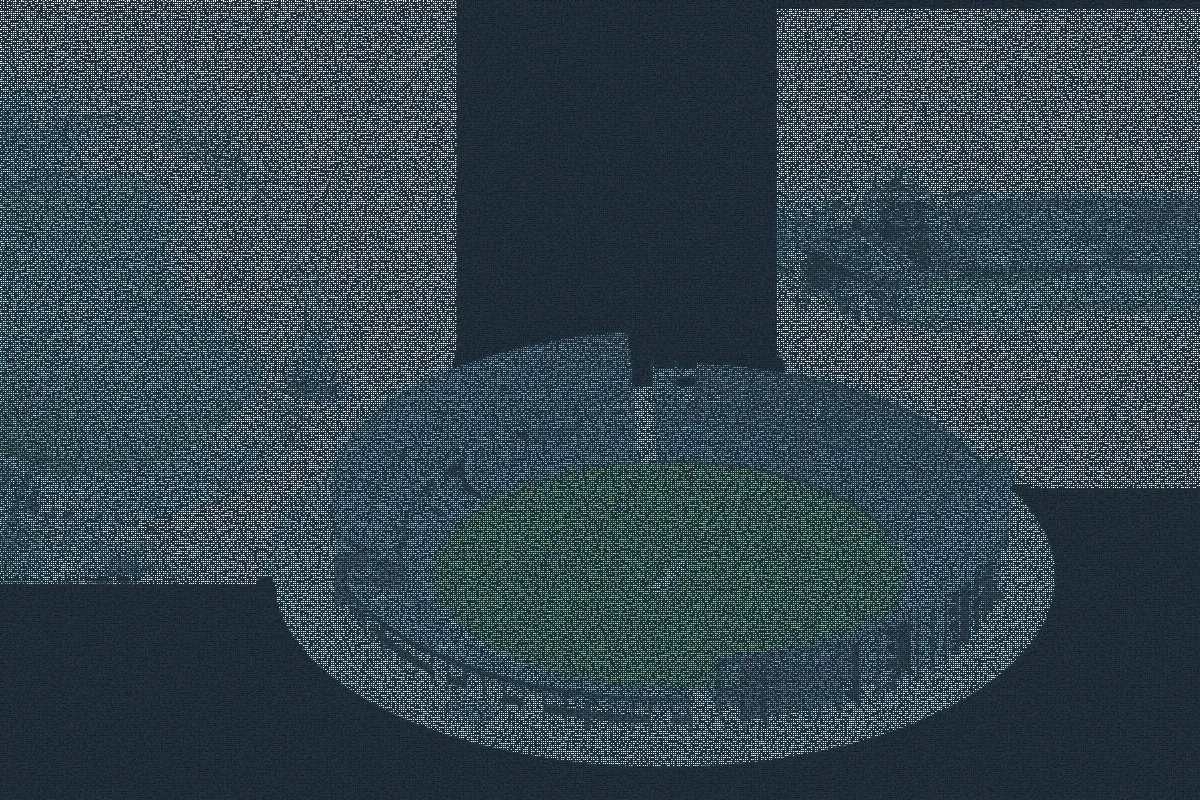
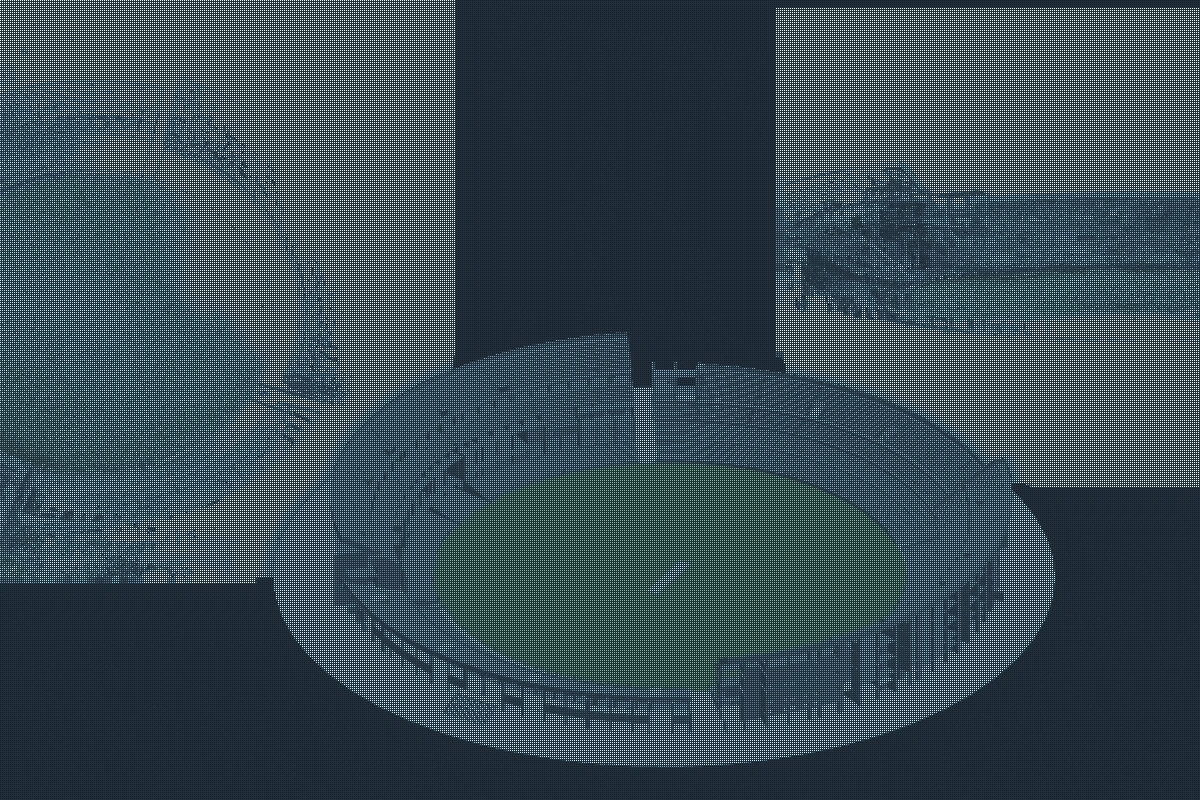
Add scroll-scrubbed 4D construction sequence
- BuildingAssembly accepts an external progress value and exposes
  setProgress, so the build order can be driven by something other than
  its own timer
- ScrollSequence pins the model while page scroll scrubs the programme,
  with a live timeline, stage highlighting and percent complete
- The 3D chunk only mounts once the section nears the viewport, so it
  never weighs on initial page load; static final frame under
  prefers-reduced-motion
- Cleaner scan placeholder (no dither noise, higher quality) to remove
  WebP block artefacts

Claude-Session: https://claude.ai/code/session_017JEBXbeF4h1xMbtK6VH1XY

diff --git a/src/components/ScrollSequence.tsx b/src/components/ScrollSequence.tsx
@@ -1,0 +1,128 @@
+import { lazy, Suspense, useEffect, useRef, useState } from 'react'
+
+const BuildingAssembly = lazy(() => import('./BuildingAssembly'))
+
+const STAGES = [
+  { at: 0.0, label: 'Substructure & frame', week: 'Weeks 1–14' },
+  { at: 0.44, label: 'Envelope & partitions', week: 'Weeks 15–28' },
+  { at: 0.67, label: 'MEP first fix', week: 'Weeks 29–40' },
+  { at: 0.9, label: 'Handover model', week: 'Weeks 41–48' },
+]
+
+/**
+ * Scroll-scrubbed 4D construction sequence: the page scroll drives the build
+ * order of the model rather than a timer, so the programme is the story.
+ */
+export default function ScrollSequence() {
+  const wrapRef = useRef<HTMLDivElement | null>(null)
+  const [p, setP] = useState(0)
+  const [reduced, setReduced] = useState(false)
+  const [inView, setInView] = useState(false)
+
+  // Only download/mount the 3D chunk once the section is close to the viewport,
+  // so it never weighs on the initial page load.
+  useEffect(() => {
+    const el = wrapRef.current
+    if (!el) return
+    const io = new IntersectionObserver(
+      ([e]) => {
+        if (e.isIntersecting) {
+          setInView(true)
+          io.disconnect()
+        }
+      },
+      { rootMargin: '600px 0px' },
+    )
+    io.observe(el)
+    return () => io.disconnect()
+  }, [])
+
+  useEffect(() => {
+    if (window.matchMedia('(prefers-reduced-motion: reduce)').matches) {
+      setReduced(true)
+      setP(1)
+      return
+    }
+    let raf = 0
+    const onScroll = () => {
+      if (raf) return
+      raf = requestAnimationFrame(() => {
+        raf = 0
+        const el = wrapRef.current
+        if (!el) return
+        const r = el.getBoundingClientRect()
+        const scrollable = r.height - window.innerHeight
+        if (scrollable <= 0) return
+        setP(Math.min(1, Math.max(0, -r.top / scrollable)))
+      })
+    }
+    window.addEventListener('scroll', onScroll, { passive: true })
+    onScroll()
+    return () => {
+      window.removeEventListener('scroll', onScroll)
+      if (raf) cancelAnimationFrame(raf)
+    }
+  }, [])
+
+  // Map the scroll range onto the model's build cycle (stop just short of the
+  // loop point so the finished building holds at the end instead of resetting).
+  const modelProgress = p * 0.985
+  const active = STAGES.reduce((acc, s, i) => (p >= s.at ? i : acc), 0)
+
+  return (
+    <div ref={wrapRef} className="relative" style={{ height: reduced ? 'auto' : '320vh' }}>
+      <div className={reduced ? '' : 'sticky top-0 h-screen flex flex-col justify-center overflow-hidden'}>
+        <div className="container-x w-full py-10">
+          <div className="flex flex-wrap items-end justify-between gap-6 mb-6">
+            <div>
+              <p className="label-mono mb-2">4D sequencing</p>
+              <h2 className="font-display text-2xl md:text-4xl font-semibold leading-tight">
+                Scroll to build the programme.
+              </h2>
+            </div>
+            <div className="text-right">
+              <div className="text-3xl md:text-4xl font-display font-semibold text-accent tabular-nums">
+                {Math.round(p * 100)}%
+              </div>
+              <div className="label-mono opacity-70">{STAGES[active].week}</div>
+            </div>
+          </div>
+
+          {/* Timeline */}
+          <div className="mb-6">
+            <div className="h-1 rounded-full overflow-hidden" style={{ background: 'var(--line)' }}>
+              <div
+                className="h-full rounded-full"
+                style={{ width: `${p * 100}%`, background: 'var(--accent)' }}
+              />
+            </div>
+            <div className="mt-3 grid grid-cols-2 md:grid-cols-4 gap-3">
+              {STAGES.map((s, i) => (
+                <div
+                  key={s.label}
+                  className="transition-opacity duration-300"
+                  style={{ opacity: i <= active ? 1 : 0.35 }}
+                >
+                  <div className="text-xs font-semibold" style={{ color: i === active ? 'var(--accent)' : undefined }}>
+                    {s.label}
+                  </div>
+                  <div className="text-[11px] text-muted">{s.week}</div>
+                </div>
+              ))}
+            </div>
+          </div>
+
+          <div className="rounded-2xl overflow-hidden border border-line" style={{ height: '52vh', minHeight: 300 }}>
+            <Suspense fallback={<div className="w-full h-full" style={{ background: 'var(--surface-2)' }} />}>
+              {inView ? (
+                <BuildingAssembly progress={reduced ? 0.985 : modelProgress} />
+              ) : (
+                <div className="w-full h-full" style={{ background: 'var(--surface-2)' }} />
+              )}
+            </Suspense>
+          </div>
+        </div>
+      </div>
+    </div>
+  )
+}

diff --git a/src/components/BuildingAssembly.tsx b/src/components/BuildingAssembly.tsx
@@ -41,7 +41,8 @@ interface El {
   t1: number
 }
 
-export default function BuildingAssembly() {
+export default function BuildingAssembly({ progress }: { progress?: number } = {}) {
+  const scrubbed = progress !== undefined
   const { theme } = useTheme()
   const mountRef = useRef<HTMLDivElement | null>(null)
   const progRef = useRef<HTMLDivElement | null>(null)
@@ -49,7 +50,7 @@ export default function BuildingAssembly() {
 
   const [mode, setMode] = useState<Mode>('shaded')
   const [phase, setPhase] = useState<Phase>('structural')
-  const [playing, setPlaying] = useState(true)
+  const [playing, setPlaying] = useState(progress === undefined)
 
   // Init once
   useEffect(() => {
@@ -61,7 +62,8 @@ export default function BuildingAssembly() {
 
   useEffect(() => { engine.current?.applyTheme(theme) }, [theme])
   useEffect(() => { engine.current?.applyMode(mode) }, [mode])
-  useEffect(() => { engine.current?.setPlaying(playing) }, [playing])
+  useEffect(() => { engine.current?.setPlaying(scrubbed ? false : playing) }, [playing, scrubbed])
+  useEffect(() => { if (progress !== undefined) engine.current?.setProgress(progress) }, [progress])
 
   const info = PHASE[phase]
 
@@ -119,13 +121,15 @@ export default function BuildingAssembly() {
               <div className="flex gap-0.5 p-1.5 rounded-xl glass shadow-lg shadow-black/5">
                 {segBtn('pen', 'Pen')}{segBtn('shaded', 'Shaded')}{segBtn('solid', 'Solid')}
               </div>
-              <button
-                onClick={() => setPlaying((v) => !v)}
-                className="w-10 h-10 grid place-items-center rounded-xl glass shadow-lg shadow-black/5 text-ink"
-                aria-label={playing ? 'Pause' : 'Play'}
-              >
-                {playing ? <Pause size={15} /> : <Play size={15} />}
-              </button>
+              {!scrubbed && (
+                <button
+                  onClick={() => setPlaying((v) => !v)}
+                  className="w-10 h-10 grid place-items-center rounded-xl glass shadow-lg shadow-black/5 text-ink"
+                  aria-label={playing ? 'Pause' : 'Play'}
+                >
+                  {playing ? <Pause size={15} /> : <Play size={15} />}
+                </button>
+              )}
             </div>
           </div>
         </div>
@@ -360,6 +364,7 @@ function createEngine(
     applyMode,
     applyTheme,
     setPlaying: (p: boolean) => { playing = p },
+    setProgress: (g: number) => { elapsed = clamp01(g) * total },
     jump: (key: Phase) => { elapsed = total * PHASE[key].start + 0.002; lastPhase = key },
     dispose() {
       cancelAnimationFrame(raf)

diff --git a/src/pages/Home.tsx b/src/pages/Home.tsx
@@ -5,6 +5,7 @@ import Reveal from '../components/Reveal'
 import Counter from '../components/Counter'
 import Marquee from '../components/Marquee'
 import BeforeAfter from '../components/BeforeAfter'
+import ScrollSequence from '../components/ScrollSequence'
 import ToolLogo from '../components/ToolLogo'
 import Icon from '../components/Icon'
 import { SectionHeading, CTABand } from '../components/ui'
@@ -132,6 +133,9 @@ export default function Home() {
           })}
         </div>
       </section>
+
+      {/* ---------------- 4D scroll-scrubbed sequence ---------------- */}
+      <ScrollSequence />
 
       {/* ---------------- From Files to Flow ---------------- */}
       <section className="relative py-24 overflow-hidden" style={{ background: 'var(--surface)' }}>
